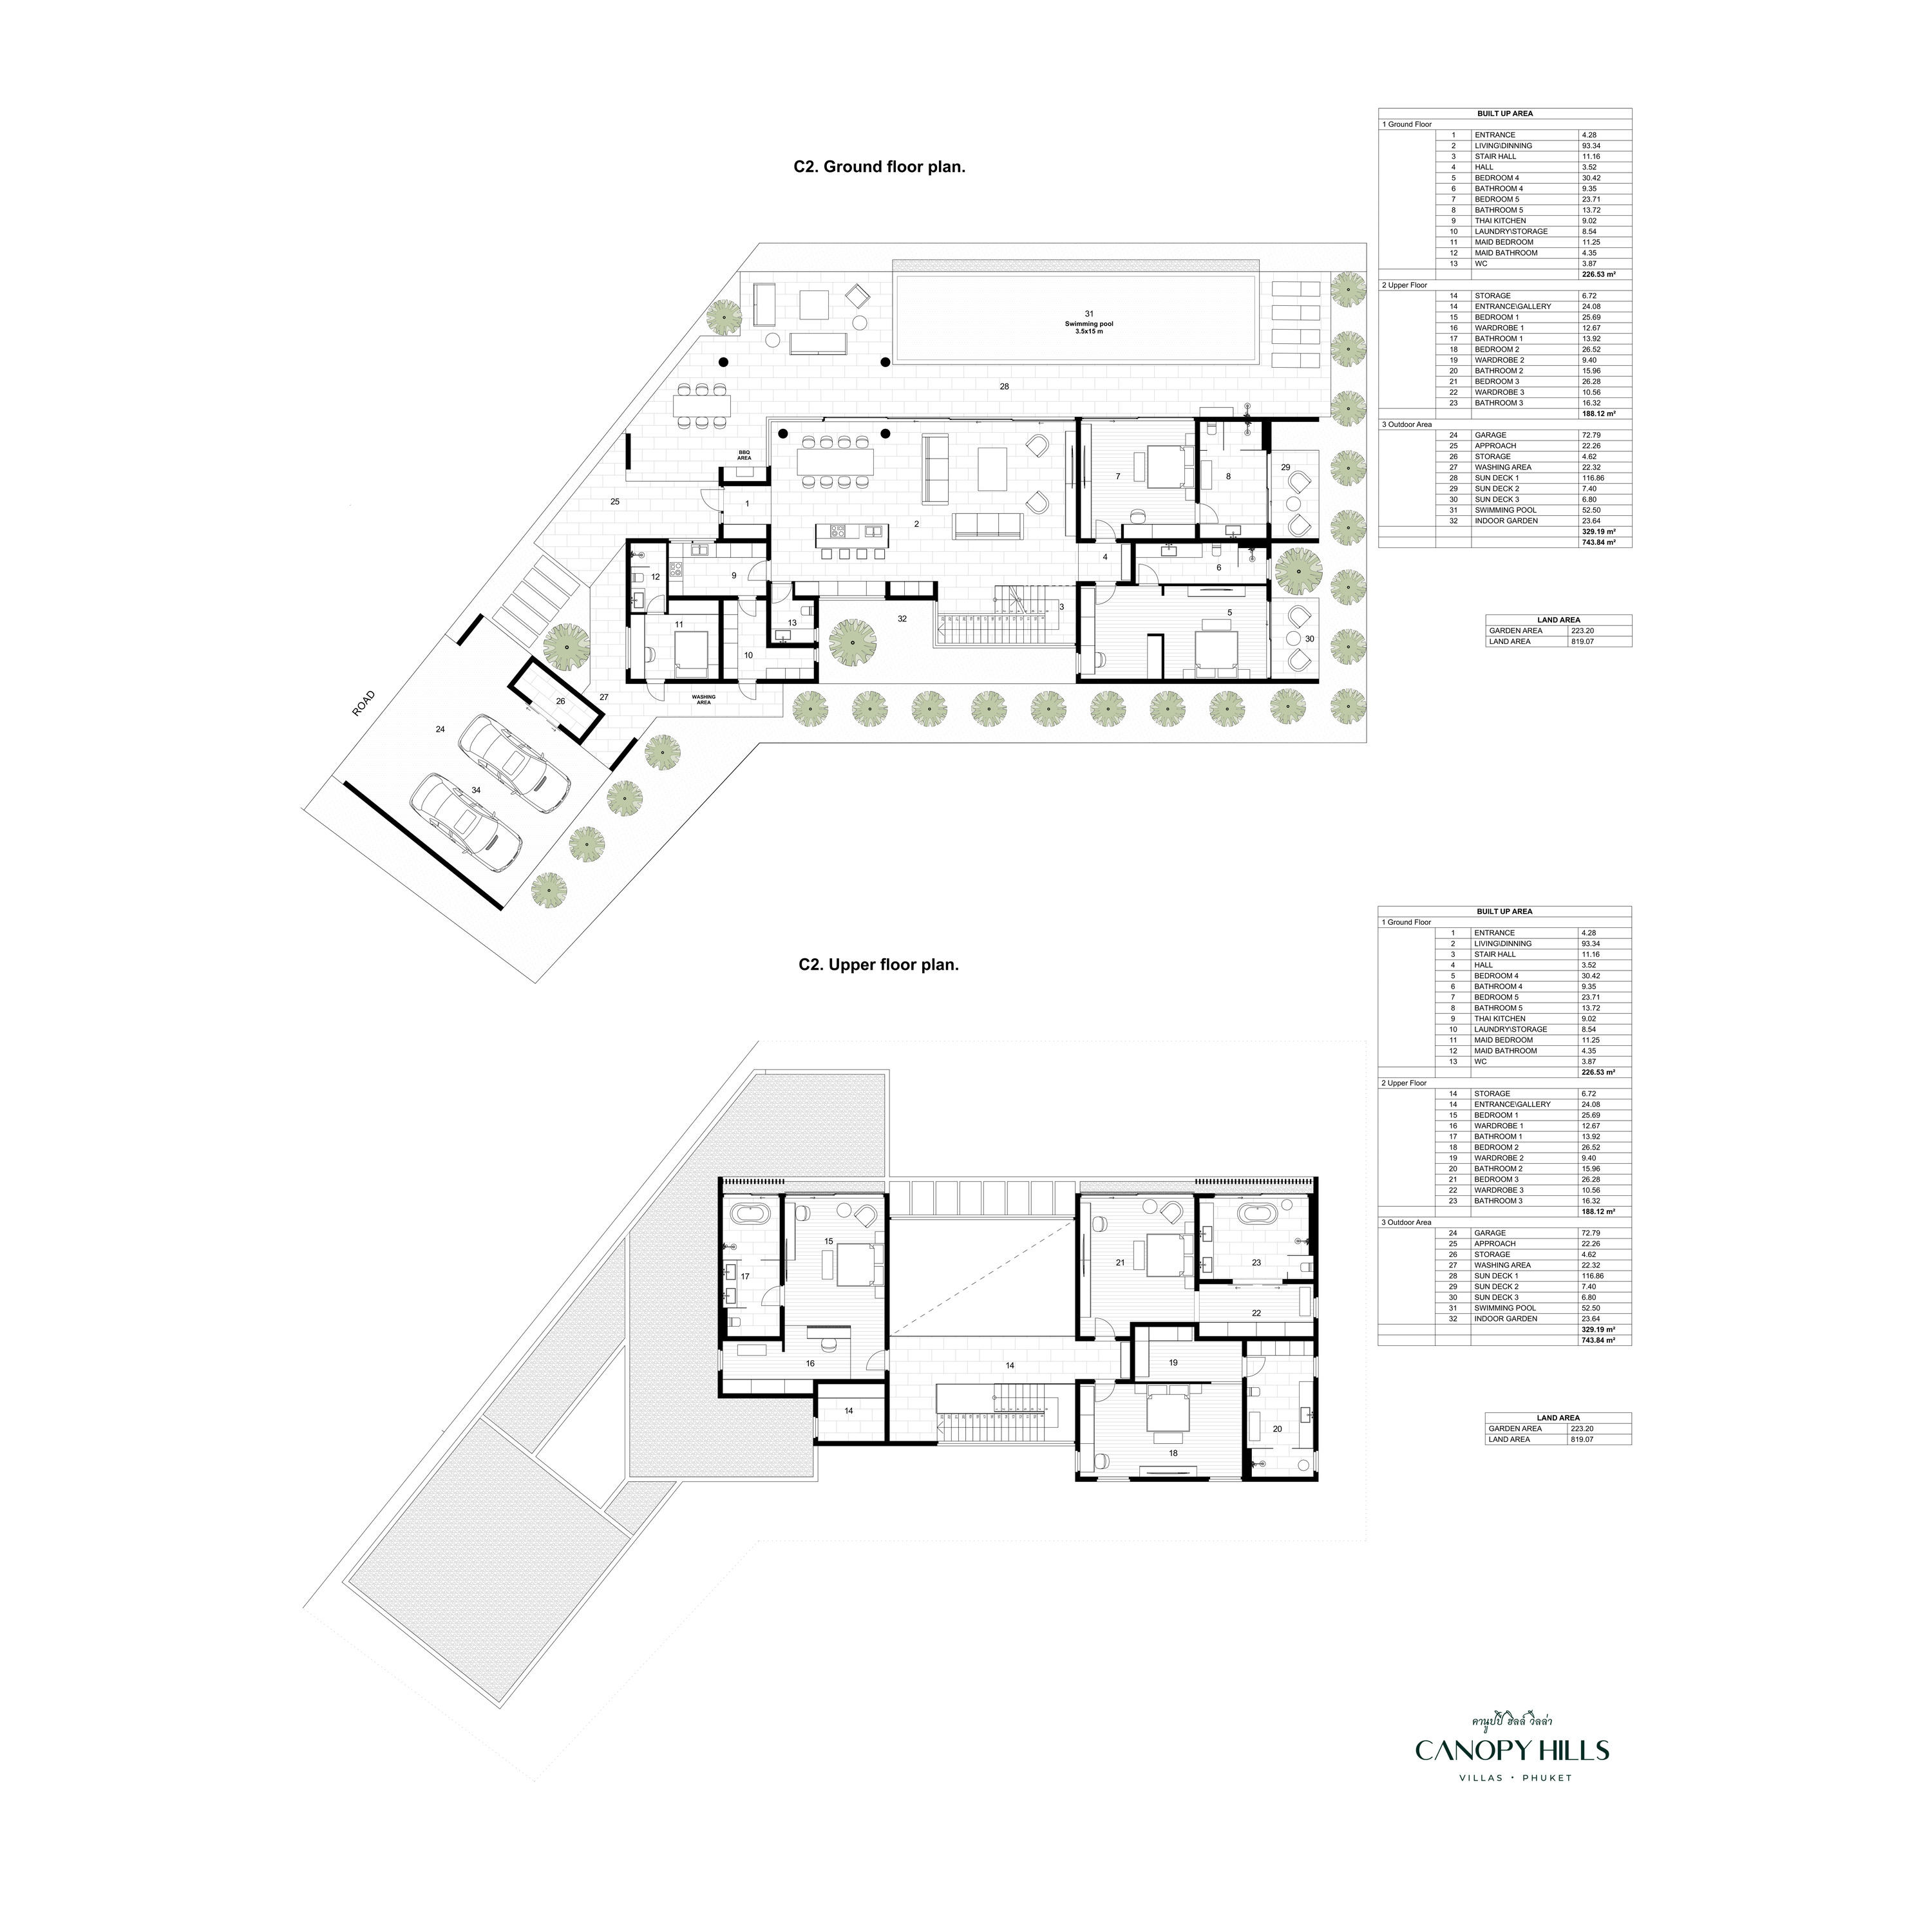
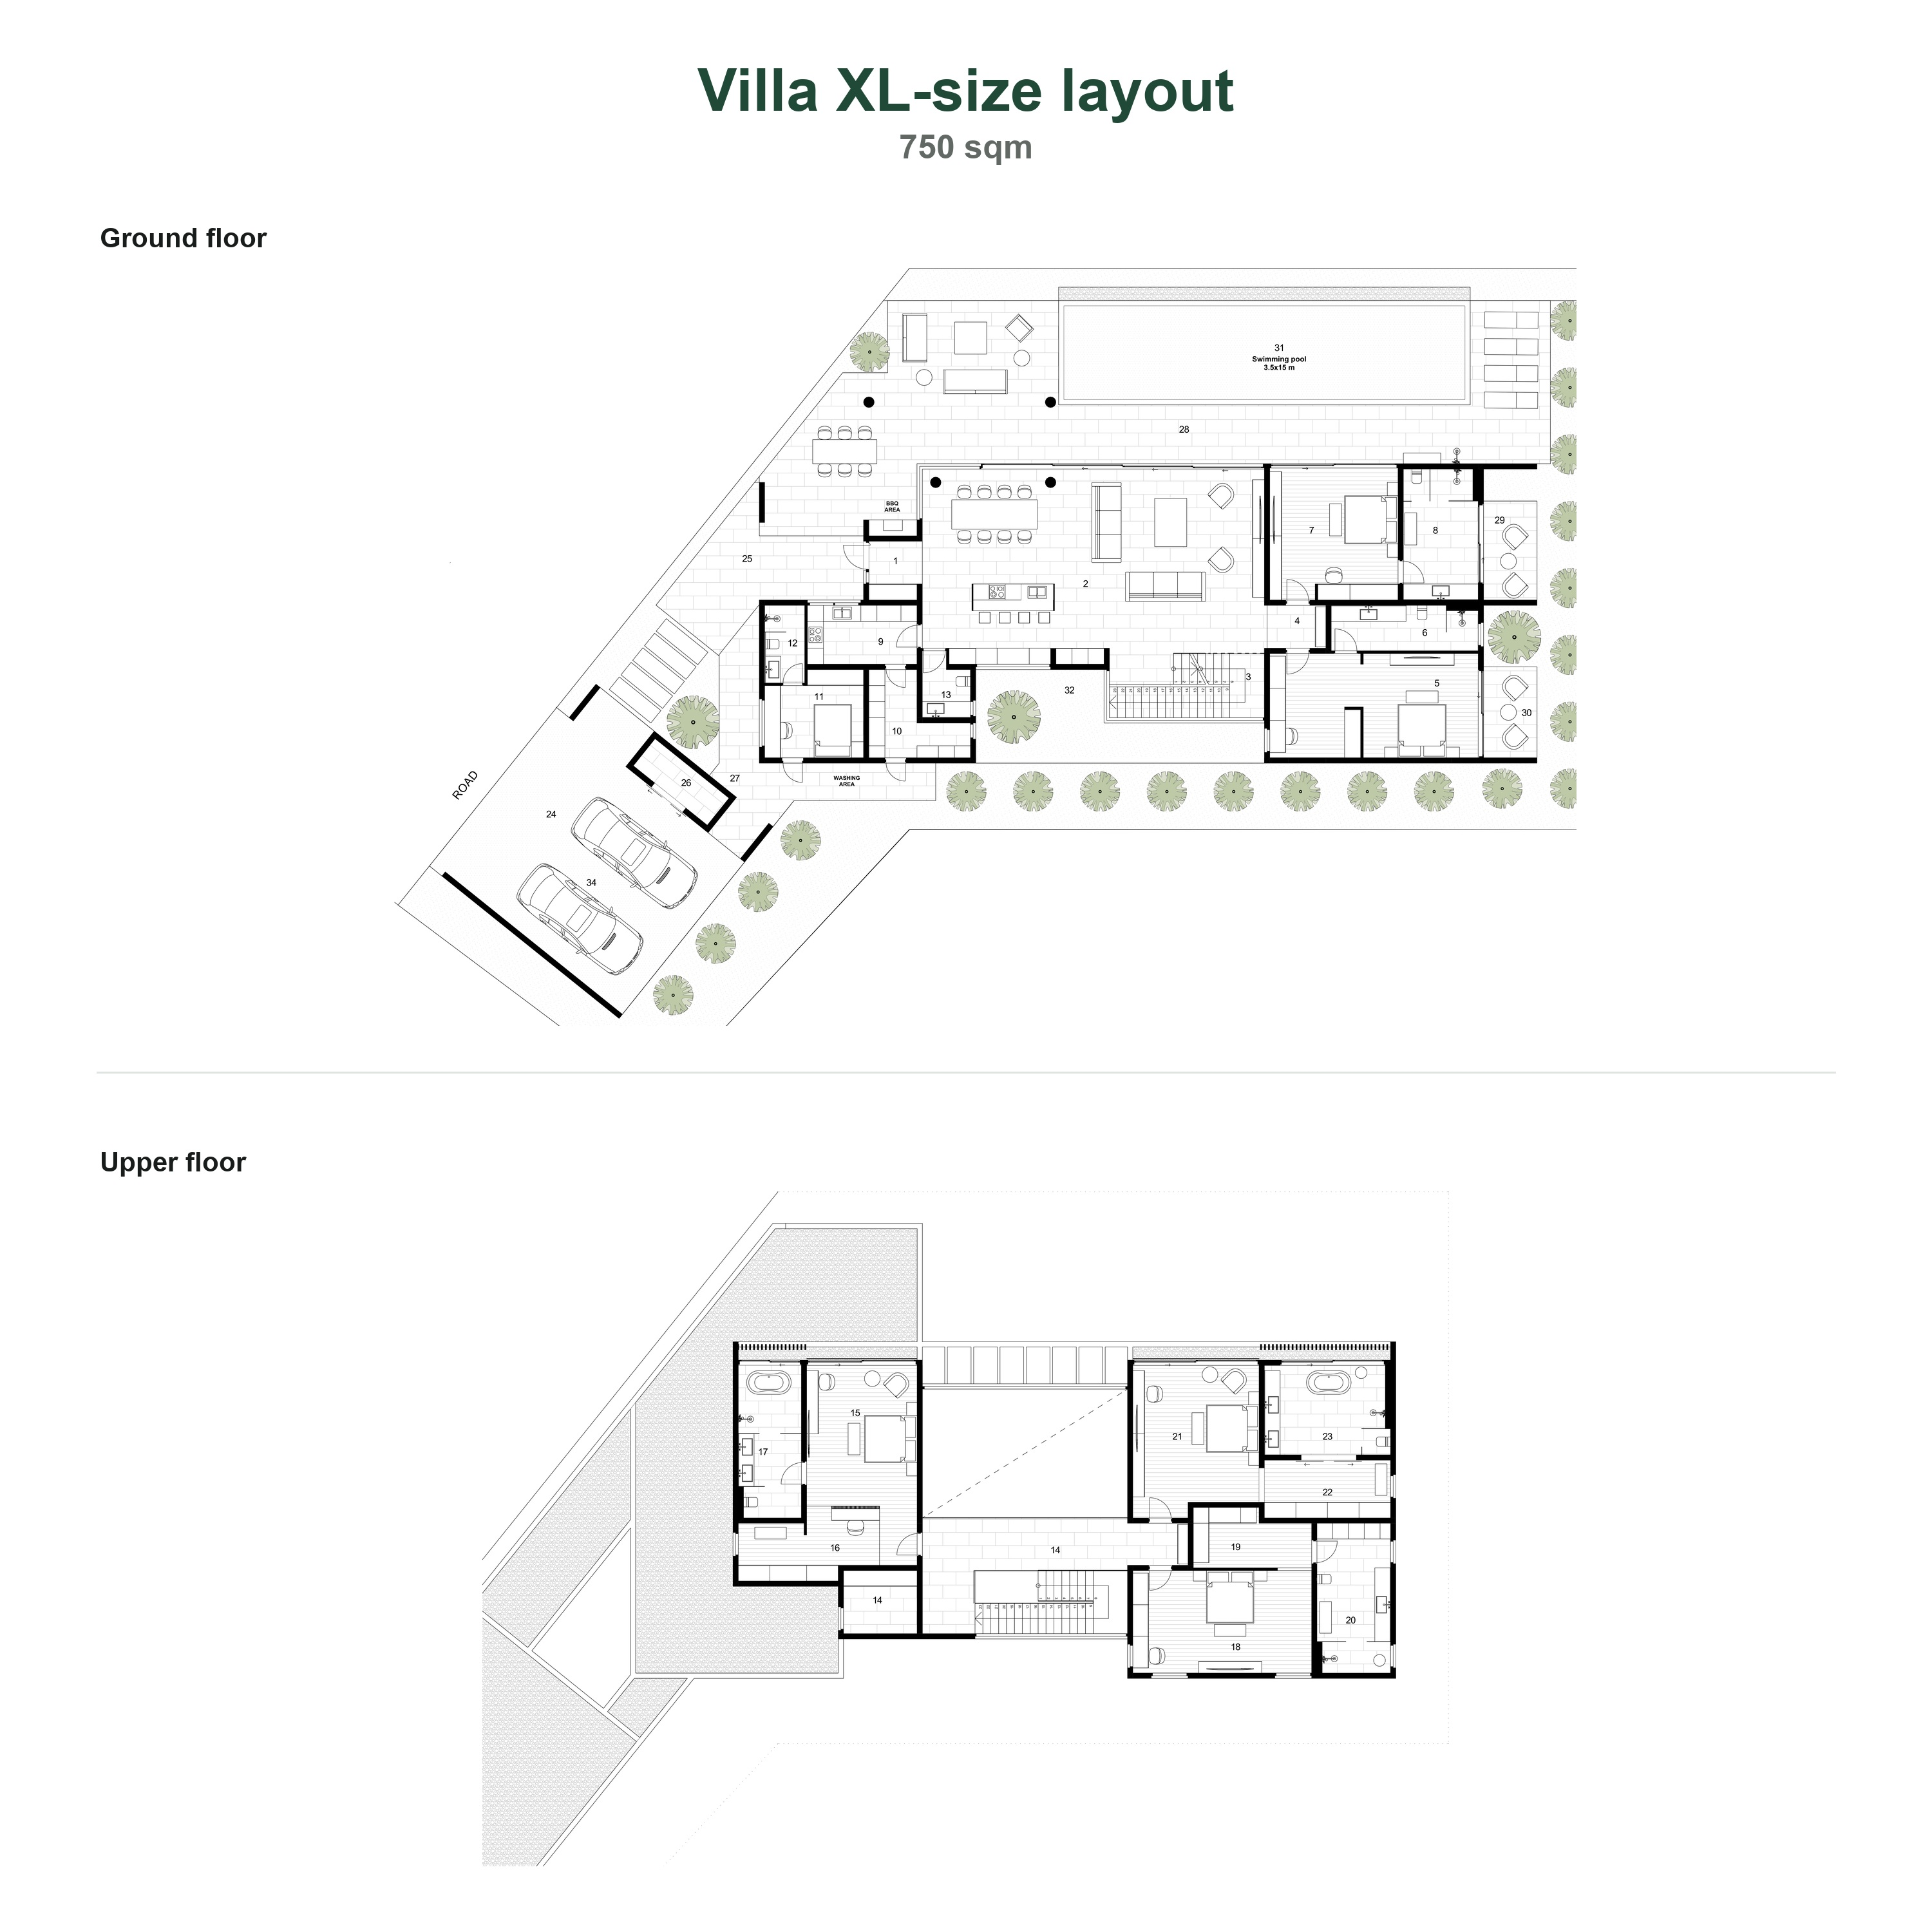
Update agent carousel title buttons and XL layout

diff --git a/whatsapp_bridge/webhook_server.py b/whatsapp_bridge/webhook_server.py
@@ -1100,8 +1100,8 @@ https://drive.google.com/drive/folders/1oSpCppxgLdRXUrHyxn8tFftyPLB4PiP5"""
 
 def agent_carousel_template(language="en"):
     if language == "ru":
-        return "canopy_agent_advantages_carousel_10_v5", "ru"
-    return "canopy_agent_advantages_carousel_10_v5", "en_US"
+        return "canopy_agent_advantages_carousel_10_v6", "ru"
+    return "canopy_agent_advantages_carousel_10_v6", "en_US"
 
 
 def send_agent_carousel_v7(to, language="en"):
@@ -2049,6 +2049,12 @@ def canopy_template_payload(template_key):
     ]
     carousel_minimal_buttons_ru = [
         {"type": "QUICK_REPLY", "text": "Подробнее"},
+    ]
+    carousel_saleskit_buttons = [
+        {"type": "URL", "text": "Open Sales Kit", "url": sales_kit_url},
+    ]
+    carousel_saleskit_buttons_ru = [
+        {"type": "URL", "text": "Sales Kit", "url": sales_kit_url},
     ]
 
     def carousel_image_card(handle_placeholder, text, include_buttons=True, buttons=None):
@@ -3279,6 +3285,52 @@ def canopy_template_payload(template_key):
                 },
             ],
         },
+        "agent_advantages_carousel_10_v6_en": {
+            "name": "canopy_agent_advantages_carousel_10_v6",
+            "language": "en_US",
+            "category": "MARKETING",
+            "components": [
+                {"type": "BODY", "text": "Key Canopy Hills advantages:"},
+                {
+                    "type": "CAROUSEL",
+                    "cards": [
+                        carousel_image_card("__CAROUSEL10V3_ESTATE_HANDLE__", "Only 9 view villas on a hillside", buttons=carousel_saleskit_buttons),
+                        carousel_image_card("__CAROUSEL10V3_VIEW_HANDLE__", "Open views: valley, lakes, hills and sunset", buttons=carousel_saleskit_buttons),
+                        carousel_image_card("__CAROUSEL10V3_PLOTS_HANDLE__", "Land plots: 670-1,214 sqm", buttons=carousel_saleskit_buttons),
+                        carousel_image_card("__CAROUSEL10V3_SCALE_HANDLE__", "L-size: 650 sqm / XL-size: 750 sqm", buttons=carousel_saleskit_buttons),
+                        carousel_image_card("__CAROUSEL10V3_LIVING_HANDLE__", "7m living room ceiling", buttons=carousel_saleskit_buttons),
+                        carousel_image_card("__CAROUSEL10V3_INVEST_HANDLE__", "Sustained demand for long-term rentals", buttons=carousel_saleskit_buttons),
+                        carousel_image_card("__CAROUSEL10V3_GREEN_HANDLE__", "Quiet Ko Kaeo location, away from tourist zones", buttons=carousel_saleskit_buttons),
+                        carousel_image_card("__CAROUSEL10V3_INSULATION_HANDLE__", "Heat and noise insulation 50% above standard", buttons=carousel_saleskit_buttons),
+                        carousel_image_card("__CAROUSEL10V3_L_LAYOUT_HANDLE__", "Villa L-size layout: 650 sqm", buttons=carousel_saleskit_buttons),
+                        carousel_image_card("__CAROUSEL10V3_XL_LAYOUT_HANDLE__", "Villa XL-size layout: 750 sqm", buttons=carousel_saleskit_buttons),
+                    ],
+                },
+            ],
+        },
+        "agent_advantages_carousel_10_v6_ru": {
+            "name": "canopy_agent_advantages_carousel_10_v6",
+            "language": "ru",
+            "category": "MARKETING",
+            "components": [
+                {"type": "BODY", "text": "Ключевые преимущества Canopy Hills:"},
+                {
+                    "type": "CAROUSEL",
+                    "cards": [
+                        carousel_image_card("__CAROUSEL10V3_ESTATE_HANDLE__", "Только 9 видовых вилл на холме", buttons=carousel_saleskit_buttons_ru),
+                        carousel_image_card("__CAROUSEL10V3_VIEW_HANDLE__", "Открытые виды: долина, озера, холмы и закат", buttons=carousel_saleskit_buttons_ru),
+                        carousel_image_card("__CAROUSEL10V3_PLOTS_HANDLE__", "Участки: 670-1,214 м²", buttons=carousel_saleskit_buttons_ru),
+                        carousel_image_card("__CAROUSEL10V3_SCALE_HANDLE__", "L-size: 650 м² / XL-size: 750 м²", buttons=carousel_saleskit_buttons_ru),
+                        carousel_image_card("__CAROUSEL10V3_LIVING_HANDLE__", "Гостиная с потолком 7 м", buttons=carousel_saleskit_buttons_ru),
+                        carousel_image_card("__CAROUSEL10V3_INVEST_HANDLE__", "Устойчивый спрос на долгосрочную аренду", buttons=carousel_saleskit_buttons_ru),
+                        carousel_image_card("__CAROUSEL10V3_GREEN_HANDLE__", "Тихая локация Ko Kaeo, не туристическая зона", buttons=carousel_saleskit_buttons_ru),
+                        carousel_image_card("__CAROUSEL10V3_INSULATION_HANDLE__", "Тепло- и шумоизоляция на 50% выше стандарта", buttons=carousel_saleskit_buttons_ru),
+                        carousel_image_card("__CAROUSEL10V3_L_LAYOUT_HANDLE__", "Планировка L-size: 650 м²", buttons=carousel_saleskit_buttons_ru),
+                        carousel_image_card("__CAROUSEL10V3_XL_LAYOUT_HANDLE__", "Планировка XL-size: 750 м²", buttons=carousel_saleskit_buttons_ru),
+                    ],
+                },
+            ],
+        },
         "agent_intro_carousel_test": {
             "name": "canopy_agent_intro_carousel_test",
             "language": "en_US",
@@ -3714,6 +3766,8 @@ def create_canopy_template(template_key):
         "agent_advantages_carousel_10_v4_ru",
         "agent_advantages_carousel_10_v5_en",
         "agent_advantages_carousel_10_v5_ru",
+        "agent_advantages_carousel_10_v6_en",
+        "agent_advantages_carousel_10_v6_ru",
     ):
         carousel_samples = [
             ("__CAROUSEL10V3_ESTATE_HANDLE__", ASSET_DIR / "carousel_v3_01_private_hillside_estate.jpg"),
@@ -5123,6 +5177,33 @@ class Handler(BaseHTTPRequestHandler):
                 return
             self.send_json(200, {"ok": True, "meta": result})
             return
+        if path == "/create-carousel-v12-template-test":
+            if self.headers.get("X-Agent-Test", "") != "canopy-agent-packet-v1":
+                self.send_json(401, {"error": "unauthorized"})
+                return
+            en_result = create_canopy_template("agent_advantages_carousel_10_v6_en")
+            ru_result = create_canopy_template("agent_advantages_carousel_10_v6_ru")
+            ok = bool(en_result.get("ok") and ru_result.get("ok"))
+            self.send_json(200 if ok else 502, {"ok": ok, "en": en_result, "ru": ru_result})
+            return
+        if path == "/carousel-v12-template-status-test":
+            if self.headers.get("X-Agent-Test", "") != "canopy-agent-packet-v1":
+                self.send_json(401, {"error": "unauthorized"})
+                return
+            result = whatsapp_templates("canopy_agent_advantages_carousel_10_v6")
+            self.send_json(200 if result.get("ok") else 502, result)
+            return
+        if path == "/send-carousel-v12-test":
+            if self.headers.get("X-Agent-Test", "") != "canopy-agent-packet-v1":
+                self.send_json(401, {"error": "unauthorized"})
+                return
+            try:
+                result = send_agent_carousel_v7("66628512432", "ru")
+            except Exception as exc:
+                self.send_json(502, {"ok": False, "error": str(exc)})
+                return
+            self.send_json(200, {"ok": True, "meta": result})
+            return
         if path == "/create-agent-video-cta-template-test":
             if self.headers.get("X-Agent-Test", "") != "canopy-agent-packet-v1":
                 self.send_json(401, {"error": "unauthorized"})
@@ -5198,15 +5279,14 @@ class Handler(BaseHTTPRequestHandler):
             self.send_json(200, {"ok": True, "meta": result})
             return
         if path == "/send-canopy-market-intel-outreach-20260617":
-            if self.headers.get("X-Agent-Test", "") != "canopy-agent-packet-v1":
-                self.send_json(401, {"error": "unauthorized"})
-                return
-            try:
-                result = send_canopy_market_intel_outreach_20260617()
-            except Exception as exc:
-                self.send_json(502, {"ok": False, "error": str(exc)})
-                return
-            self.send_json(200 if result.get("ok") or result.get("already_sent") else 502, result)
+            self.send_json(
+                410,
+                {
+                    "ok": False,
+                    "error": "disabled",
+                    "reason": "Hugs Management developer research outreach must use a separate dedicated WhatsApp channel, not the Canopy Hills bridge.",
+                },
+            )
             return
         if path == "/send-template":
             payload = self.read_authorized_json()